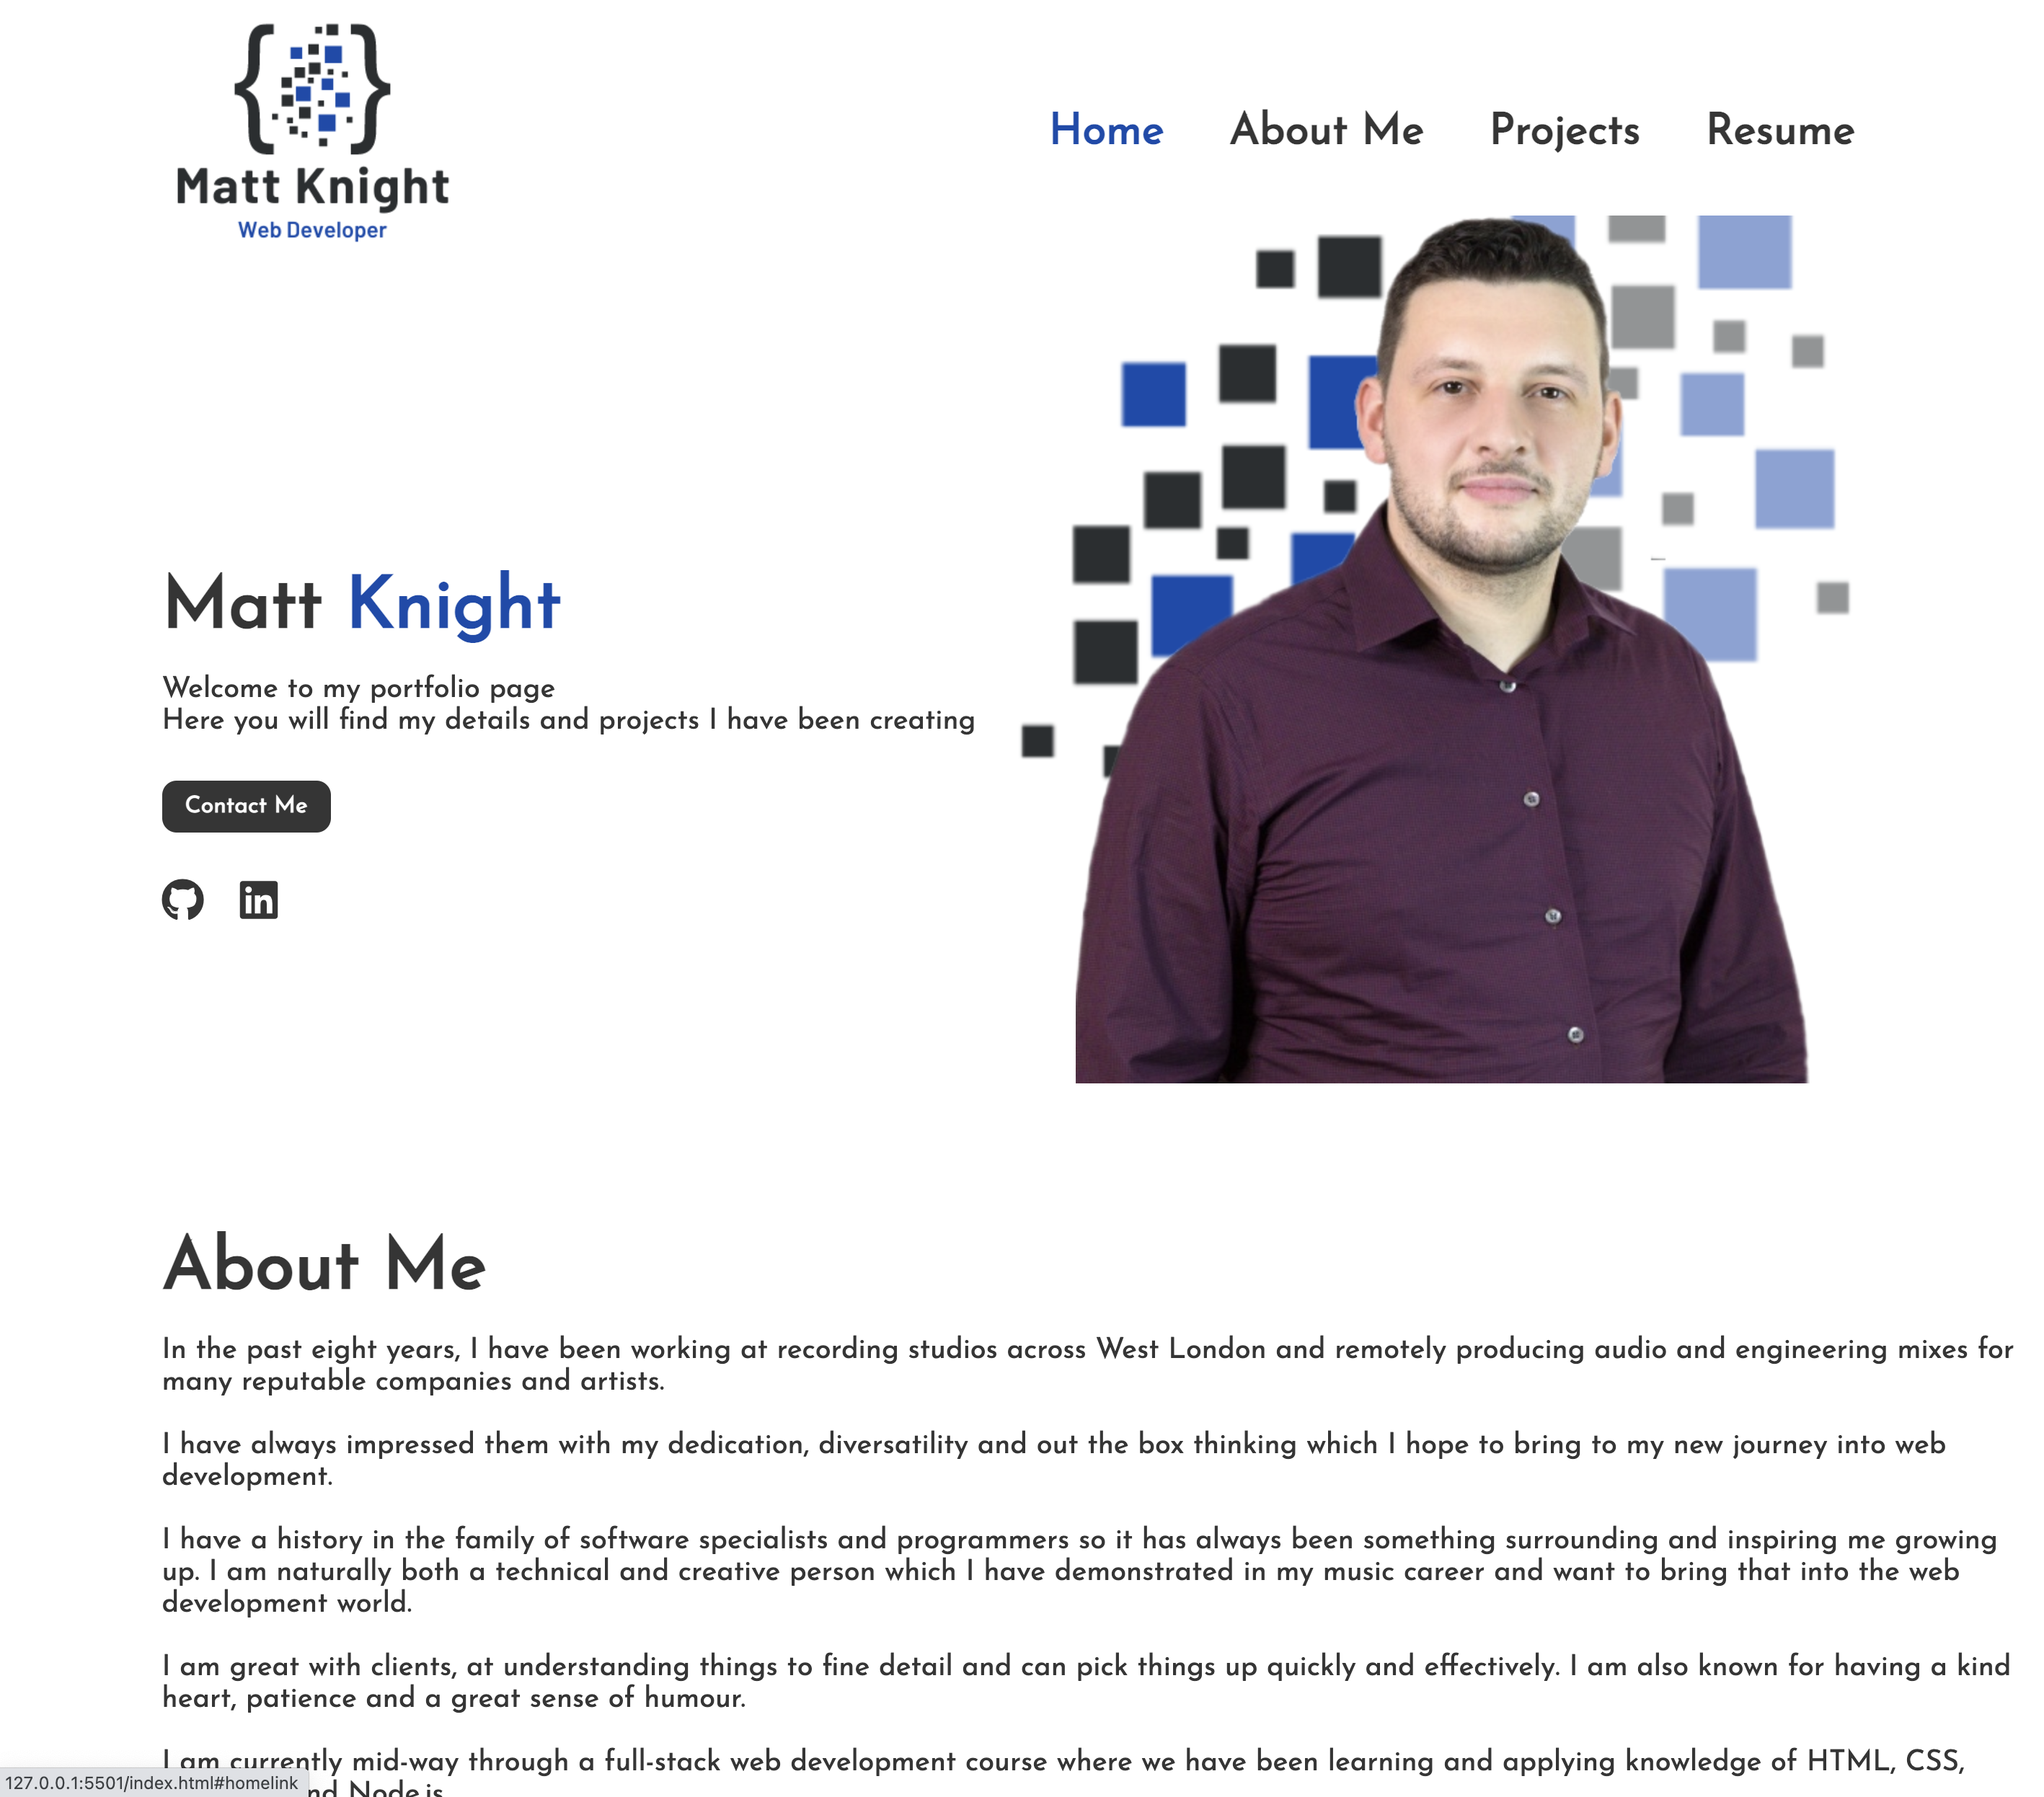
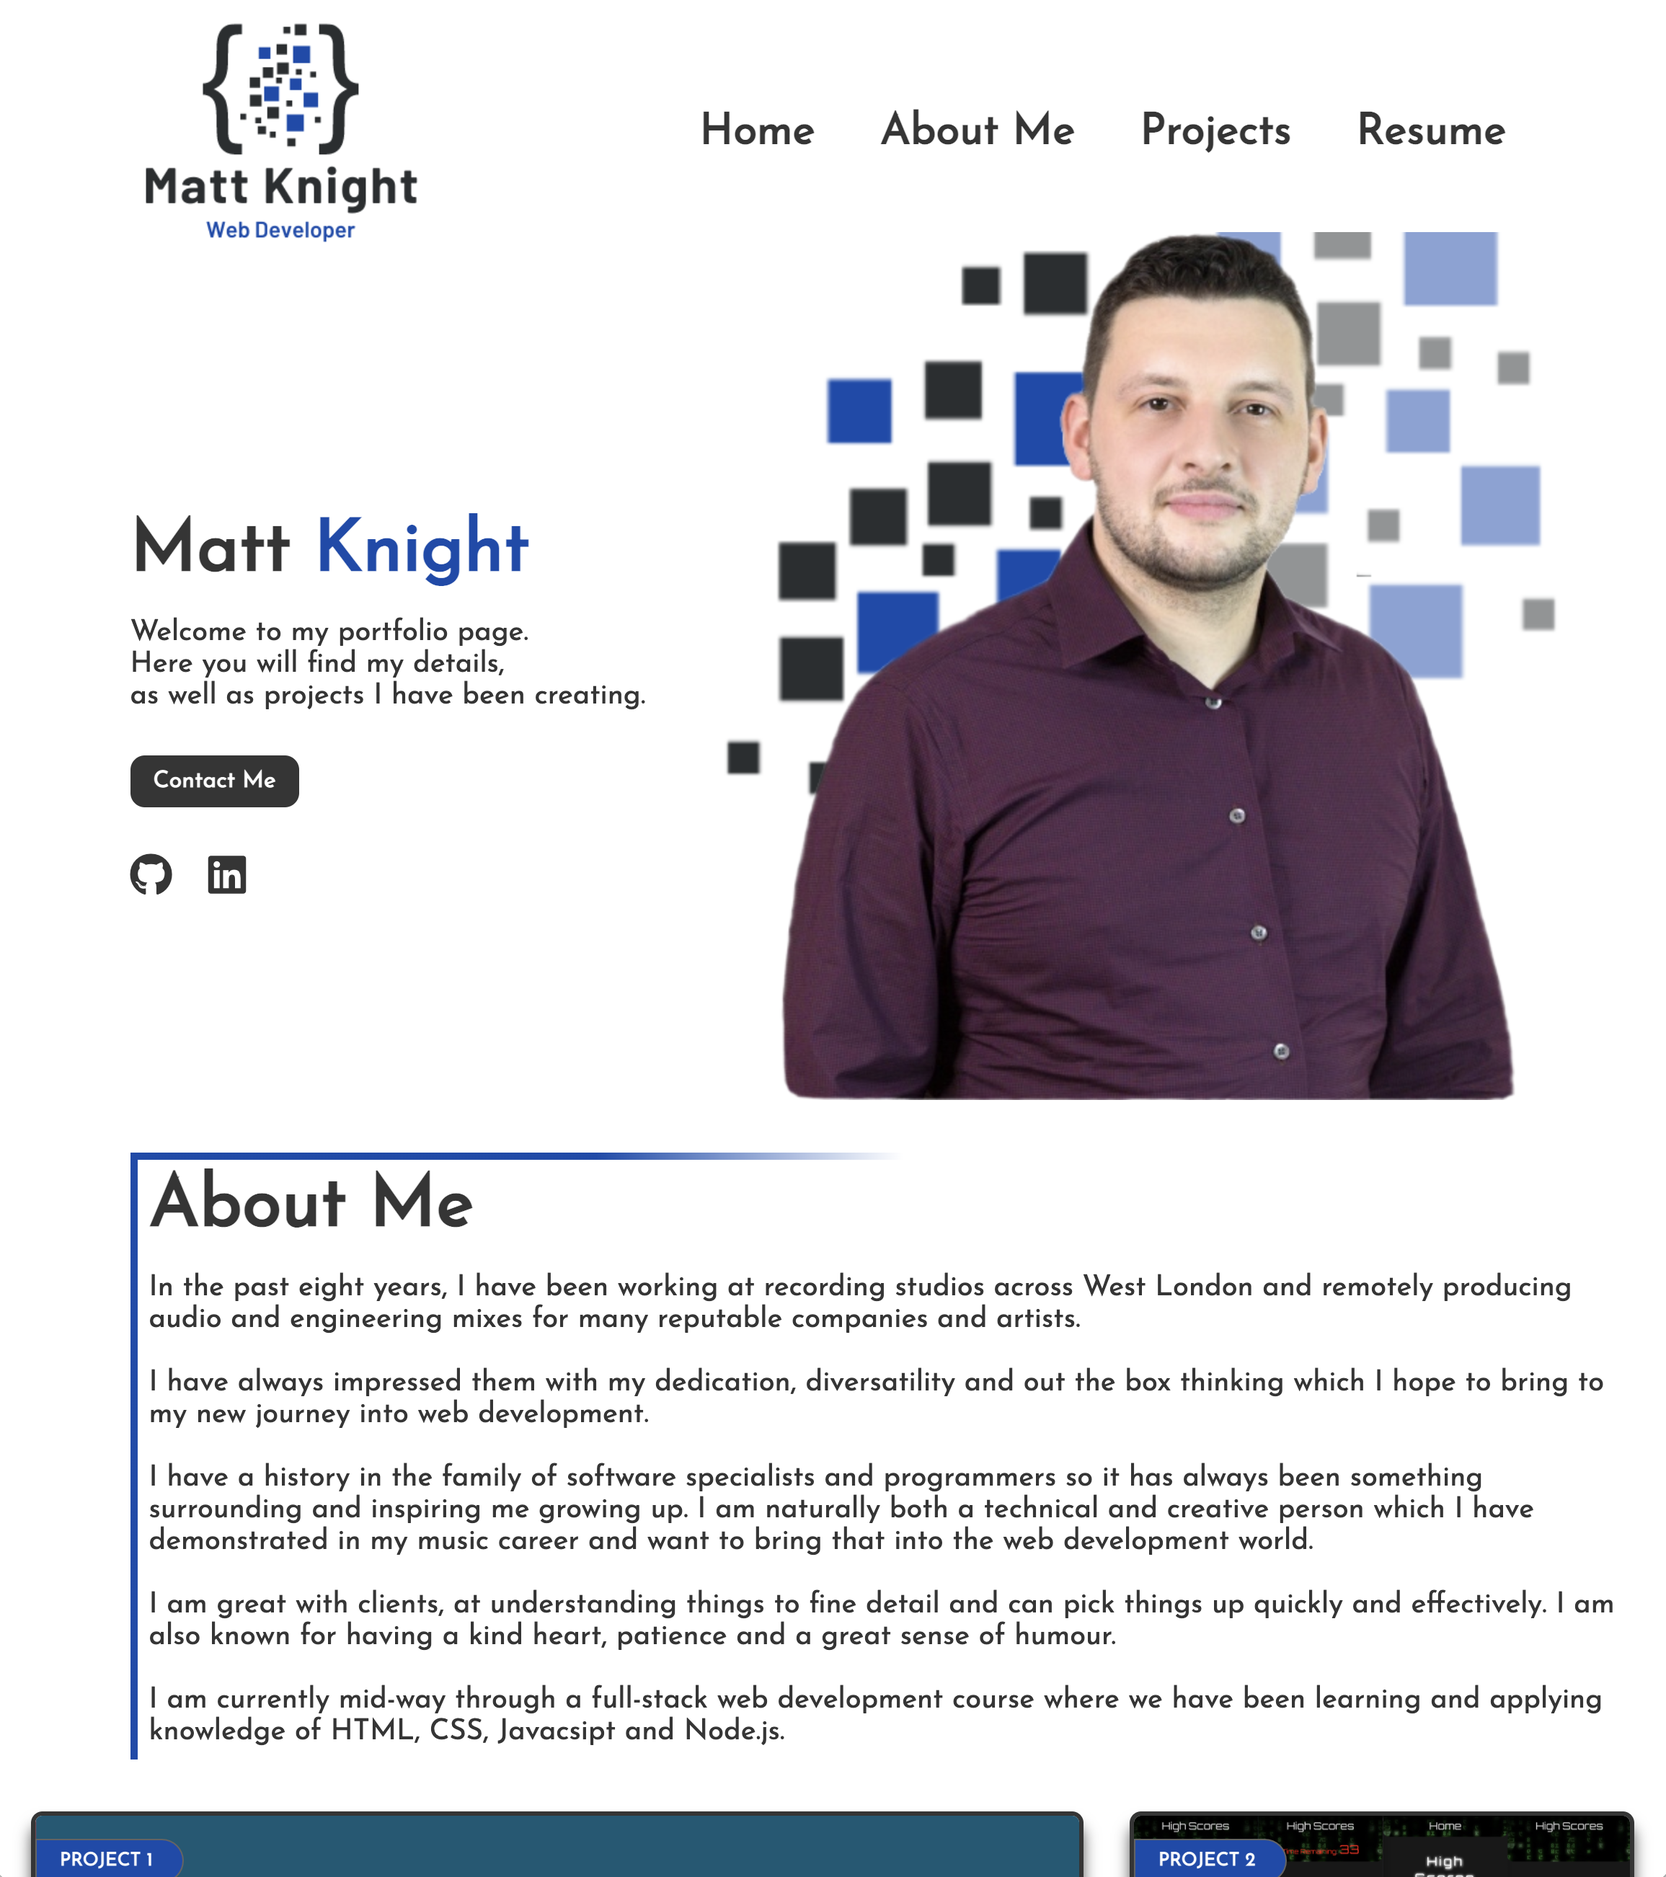
Some borders added and some tweaks

diff --git a/assets/styles.css b/assets/styles.css
@@ -160,6 +160,21 @@ span {
   margin-top: 15%;
   margin-top: 20x;
   margin-bottom: 20px;
+  padding: 8px;
+  border-left: 5px solid black;
+  border-image: linear-gradient(
+    to bottom,
+    var(--blue) 50%,
+    rgba(0, 0, 0, 0) 50%
+  ); /* to top - at 50% transparent */
+  border-image-slice: 1;
+  border-top: 5px solid black;
+  border-image: linear-gradient(
+    to right,
+    var(--blue) 30%,
+    rgba(0, 0, 0, 0) 50%
+  ); /* to top - at 50% transparent */
+  border-image-slice: 1;
 }
 
 .aboutMe h1 {
